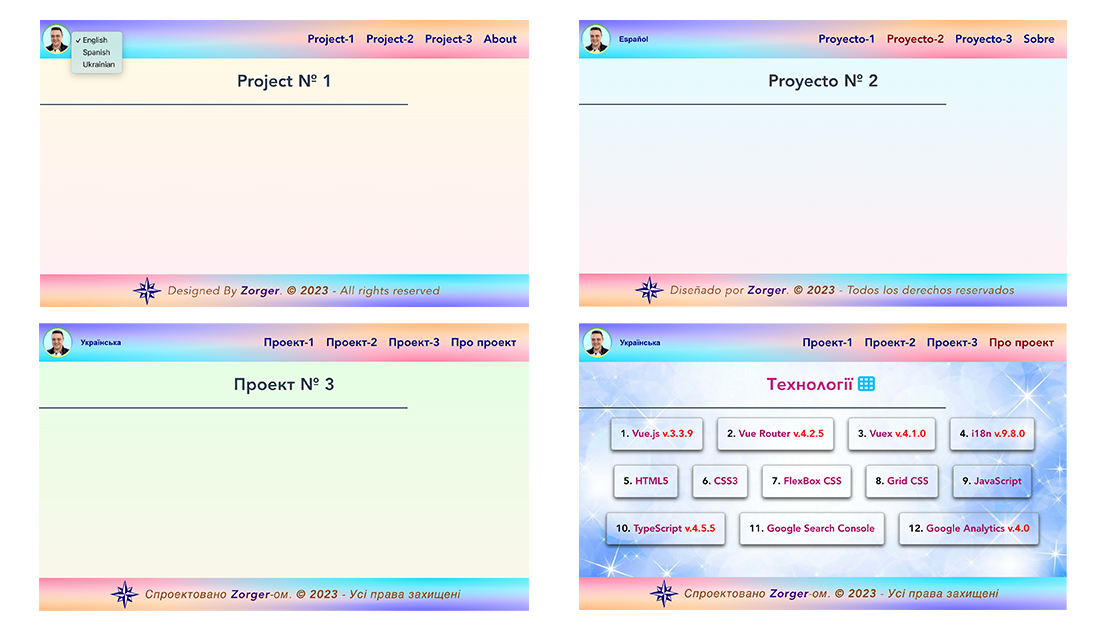
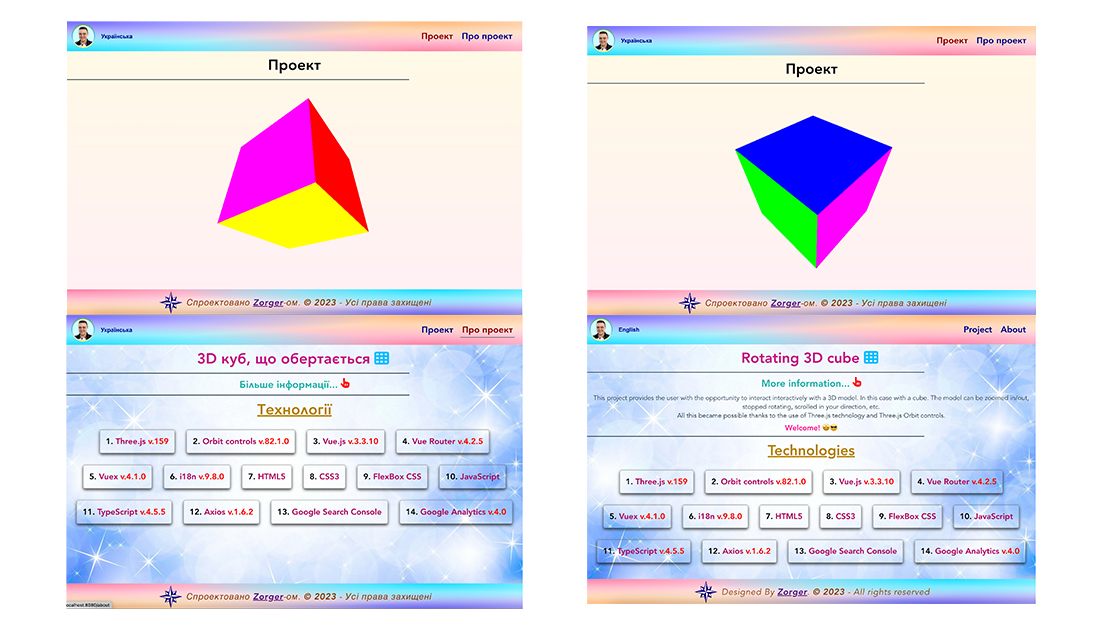
Small changes

diff --git a/vue.config.js b/vue.config.js
@@ -1,7 +1,7 @@
 const CopyWebpackPlugin = require('copy-webpack-plugin')
 const HtmlWebpackTagsPlugin = require('html-webpack-tags-plugin')
 const FaviconsWebpackPlugin = require('favicons-webpack-plugin')
-// const SitemapPlugin = require('sitemap-webpack-plugin').default
+const SitemapPlugin = require('sitemap-webpack-plugin').default
 
 module.exports = {
   pages: {
@@ -9,11 +9,11 @@ module.exports = {
       entry: 'src/main.ts',
       template: 'public/index.html',
       filename: 'index.html',
-      title: 'Vue.js & Three.js project',
+      title: 'Rotating 3D cube',
     }
   },
   pwa: {
-    // manifestPath: "https://vue-start-template.vercel.app/assets/favicon/manifest.webmanifest",
+    manifestPath: "https://https://vue-threejs-1.vercel.app/assets/favicon/manifest.webmanifest",
     iconPaths: {
       favicon32: null,
       favicon16: null,
@@ -56,14 +56,14 @@ module.exports = {
         useHash: false,
         metas: [
           // {attributes: {name: 'google-site-verification', content: 'Gq9vrXtN91P1JteGFo-xrlLKT0PR8u-4P4xs21oUr8Y'}},
-          {attributes: {name: 'description', content: 'Vue.js & Three.js project № 1 with TypeScript'}},
-          {attributes: {property: 'og:title', content: 'Three.js project'}},
-          {attributes: {property: 'twitter:title', content: 'Three.js project'}},
-          {attributes: {property: 'og:description', content: 'Vue.js & Three.js project № 1 with TypeScript'}},
-          {attributes: {property: 'twitter:description', content: 'Vue.js & Three.js project № 1 with TypeScript'}},
-          // {attributes: {property: 'og:image', content: 'https://vue-start-template.vercel.app/assets/ogimage/image_all.jpg'}},
-          // {attributes: {property: 'twitter:image', content: 'https://vue-start-template.vercel.app/assets/ogimage/image_all.jpg'}},
-          // {attributes: {property: 'og:url', content: 'https://vue-start-template.vercel.app'}},
+          {attributes: {name: 'description', content: 'Rotating 3D cube (Vue.js with TypeScript & Three.js)'}},
+          {attributes: {property: 'og:title', content: 'Rotating 3D cube'}},
+          {attributes: {property: 'twitter:title', content: 'Rotating 3D cube'}},
+          {attributes: {property: 'og:description', content: 'Rotating 3D cube (Vue.js with TypeScript & Three.js)'}},
+          {attributes: {property: 'twitter:description', content: 'Rotating 3D cube (Vue.js with TypeScript & Three.js)'}},
+          {attributes: {property: 'og:image', content: 'https://vue-threejs-1.vercel.app/assets/ogimage/image_all.jpg'}},
+          {attributes: {property: 'twitter:image', content: 'https://vue-threejs-1.vercel.app/assets/ogimage/image_all.jpg'}},
+          {attributes: {property: 'og:url', content: 'https://vue-threejs-1.vercel.app'}},
           {attributes: {property: 'og:type', content: 'website'}},
           {attributes: {property: 'twitter:card', content: 'summary_large_image'}}
         ]
@@ -77,23 +77,21 @@ module.exports = {
         manifest: './src/assets/manifest/manifest.webmanifest',
         favicons: {
           appName: 'Three.js project',
-          appDescription: 'Vue.js & Three.js project № 1 with TypeScript',
+          appDescription: 'Rotating 3D cube (Vue.js with TypeScript & Three.js)',
           developerName: 'Zorger',
           developerURL: null
         }
       }),
-      // new SitemapPlugin({
-        // base: 'https://vue-start-template.vercel.app', // Базовый URL моего сайта
-        // paths: [
-        //   { path: '/', priority: 1, changefreq: 'always' },
-        //   { path: '/project2', priority: 1, changefreq: 'daily' },
-        //   { path: '/project3', priority: 1, changefreq: 'daily' },
-        //   { path: '/about', priority: 1, changefreq: 'always' },
-        // ],
-        // options: {
-        //   skipgzip: true
-        // },
-      // }),
+      new SitemapPlugin({
+        base: 'https://vue-threejs-1.vercel.app', // Базовый URL моего сайта
+        paths: [
+          { path: '/', priority: 1, changefreq: 'always' },
+          { path: '/about', priority: 1, changefreq: 'always' },
+        ],
+        options: {
+          skipgzip: true
+        },
+      }),
     ]
   }
 }

diff --git a/src/router/index.ts b/src/router/index.ts
@@ -19,14 +19,14 @@ const routes: Array<RouteRecordRaw> = [
           property: 'og:description',
           content: 'Project'
         },
-        // {
-        //   property: 'og:image',
-        //   content: 'https://vue-start-template.vercel.app/assets/ogimage/image_all.jpg'
-        // },
-        // {
-        //   property: 'og:url',
-        //   content: 'https://vue-start-template.vercel.app'
-        // },
+        {
+          property: 'og:image',
+          content: 'https://vue-threejs-1.vercel.app/assets/ogimage/image_all.jpg'
+        },
+        {
+          property: 'og:url',
+          content: 'https://vue-threejs-1.vercel.app'
+        },
         {
           property: 'og:type',
           content: 'website'
@@ -49,14 +49,14 @@ const routes: Array<RouteRecordRaw> = [
           property: 'og:description',
           content: 'About this project'
         },
-        // {
-        //   property: 'og:image',
-        //   content: 'https://vue-start-template.vercel.app/assets/ogimage/image_all.jpg'
-        // },
-        // {
-        //   property: 'og:url',
-        //   content: 'https://vue-start-template.vercel.app'
-        // },
+        {
+          property: 'og:image',
+          content: 'https://vue-threejs-1.vercel.app/assets/ogimage/image_all.jpg'
+        },
+        {
+          property: 'og:url',
+          content: 'https://vue-threejs-1.vercel.app'
+        },
         {
           property: 'og:type',
           content: 'website'
@@ -79,14 +79,14 @@ const routes: Array<RouteRecordRaw> = [
           property: 'og:description',
           content: 'Page NOT Found'
         },
-        // {
-        //   property: 'og:image',
-        //   content: 'https://vue-start-template.vercel.app/assets/ogimage/image_all.jpg'
-        // },
-        // {
-        //   property: 'og:url',
-        //   content: 'https://vue-start-template.vercel.app'
-        // },
+        {
+          property: 'og:image',
+          content: 'https://vue-threejs-1.vercel.app/assets/ogimage/image_all.jpg'
+        },
+        {
+          property: 'og:url',
+          content: 'https://vue-threejs-1.vercel.app'
+        },
         {
           property: 'og:type',
           content: 'website'
